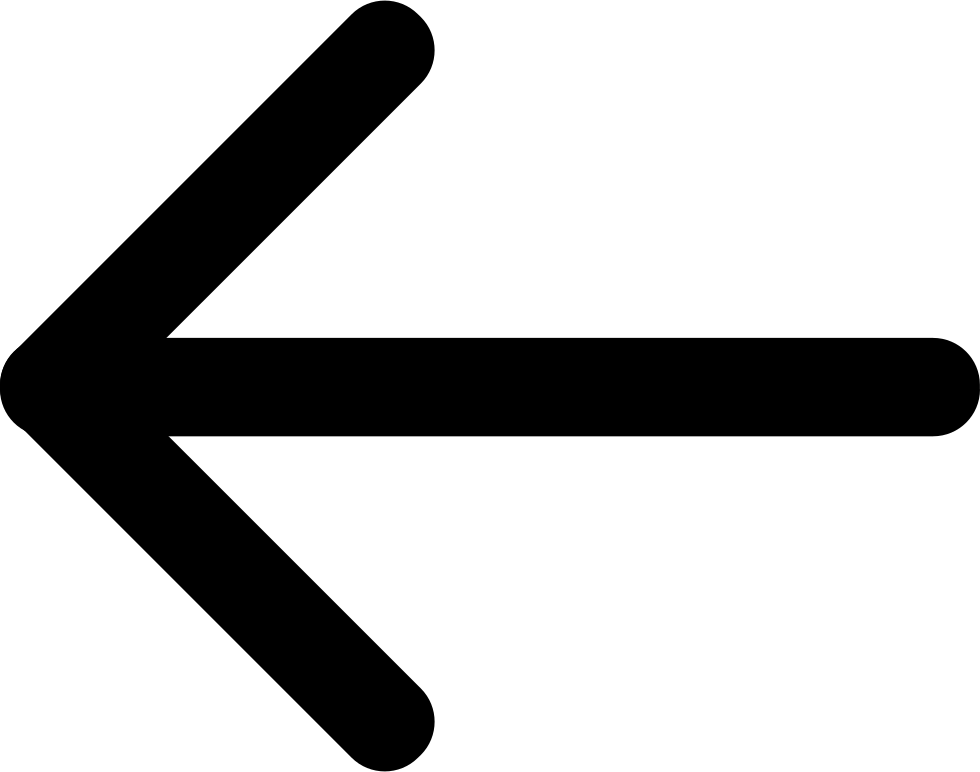
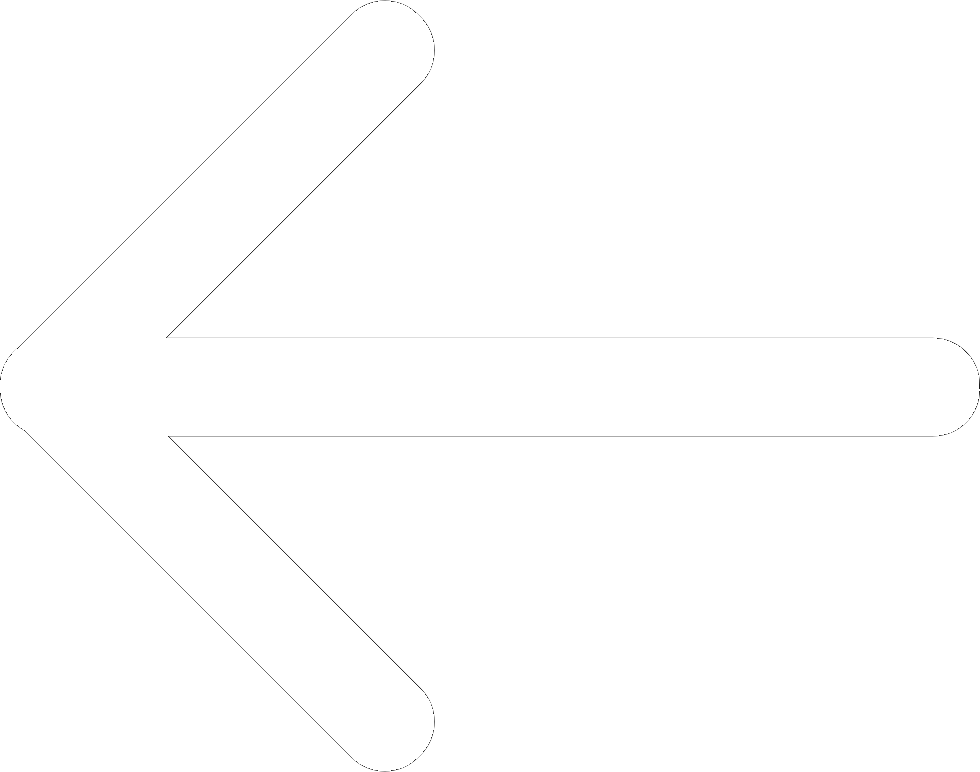
added fancy animation + made the back button white

Changed region(s): [[0.0, 0.0, 1.0, 1.0]]

diff --git a/static/css/main.css b/static/css/main.css
@@ -32,9 +32,7 @@ img.back {
     width: 70px;
     top: 20px;
     left: 20px;
-    background-color: rgb(54,57,62);
     padding:10px;
-    border-radius: 25px;
 }
 .postbox {
     background-color: rgb(54,57,62);
@@ -45,6 +43,18 @@ img.back {
     padding: 4%;
     color:white;
     margin-bottom: 20px;
+}
+@keyframes hover {
+    from {
+        background-color: rgb(54,57,62);
+    }
+    to {
+        background-color: rgb(36, 39, 44); 
+    }
+}
+.postbox:hover {
+    animation-name: hover;
+    animation-duration: 1s;
 }
 a {
     color:white;
